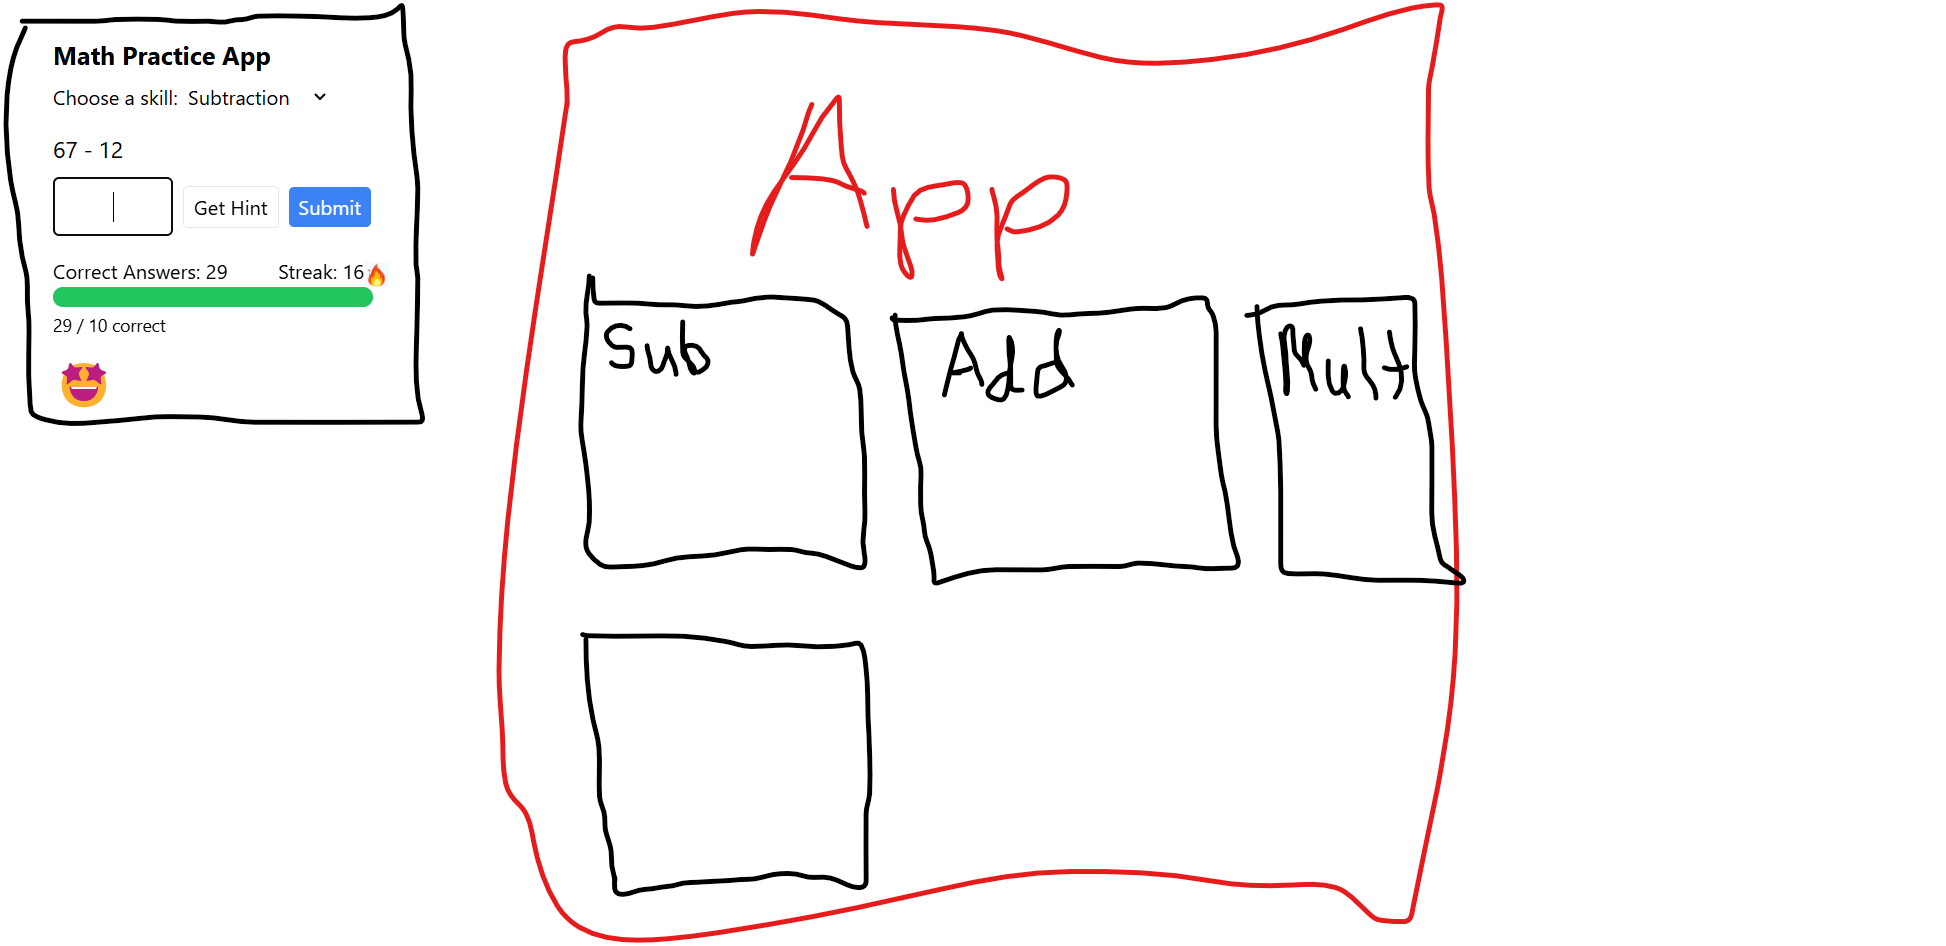
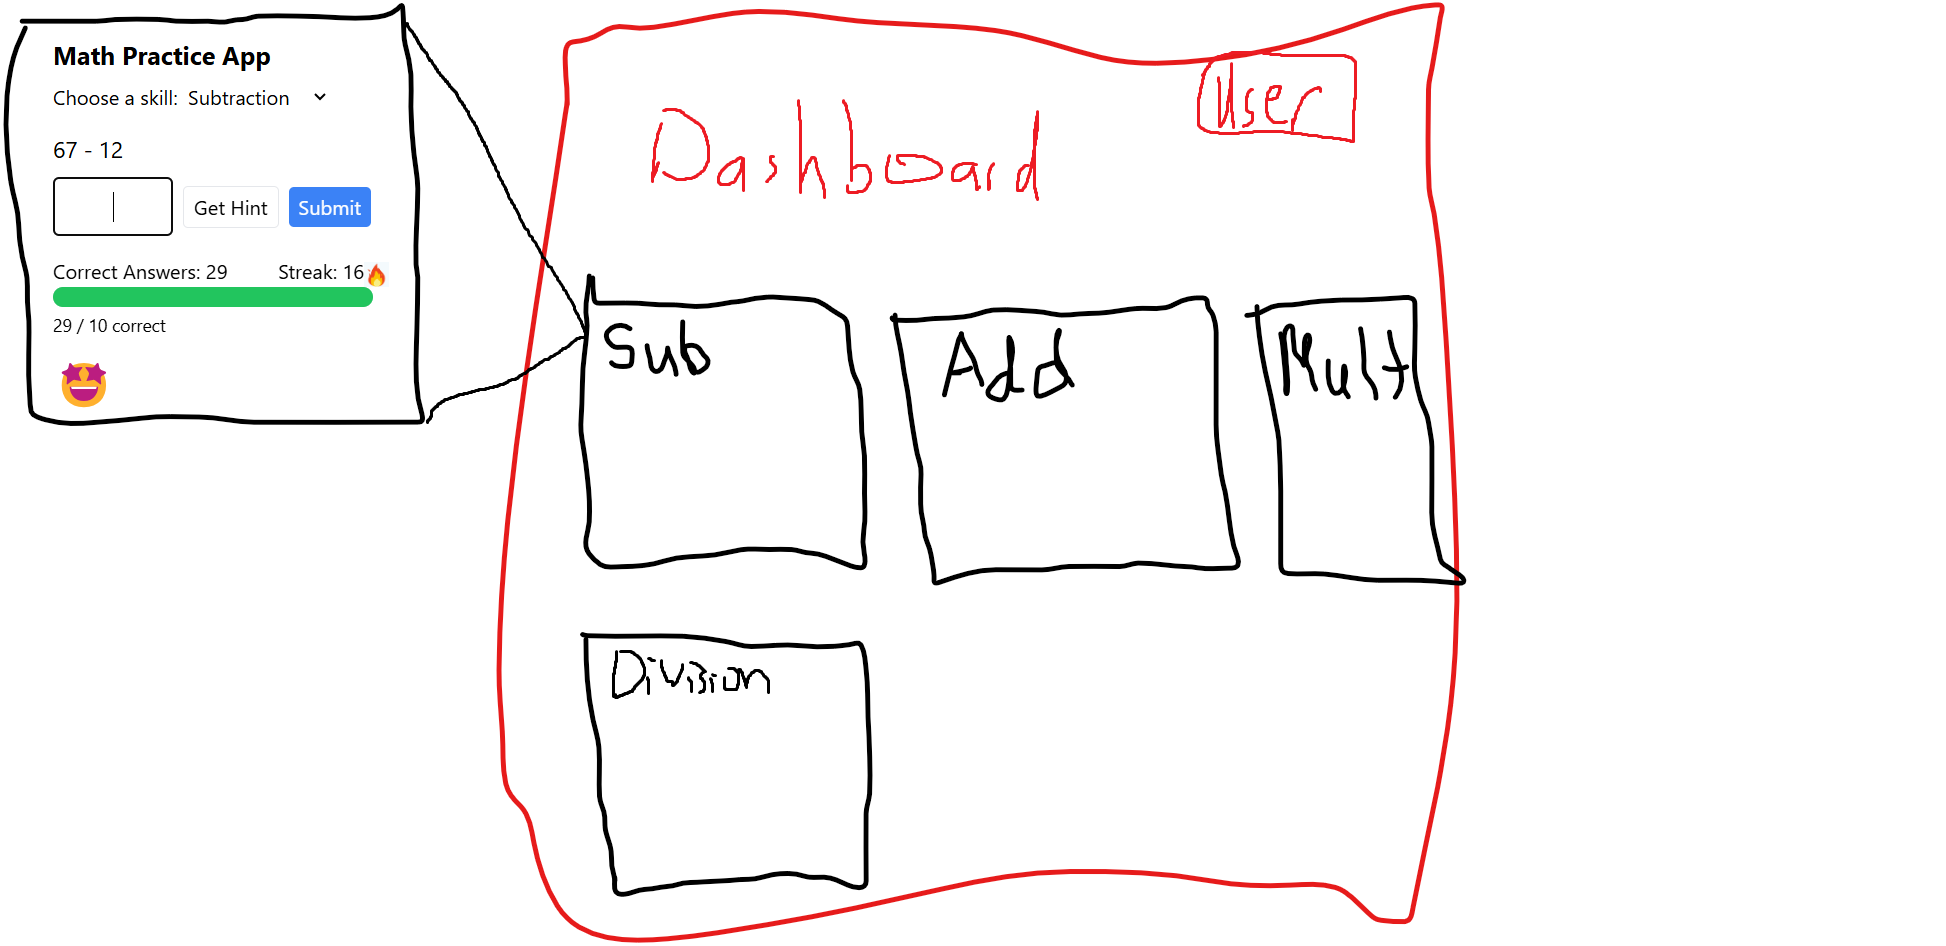
Rerouted App as Dashboard, App Components are now called SkillCards. Added More problemGenerators.

diff --git a/src/pages/SkillCard.tsx b/src/pages/SkillCard.tsx
@@ -3,28 +3,40 @@ import ProblemView from "../components/ProblemView";
 import {
   generateAdditionProblem,
   generateSubtractionProblem,
+  generateMultiplicationProblem,
+  generateDivisionProblem,
   MathProblem,
 } from "../utils/problemGenerators";
 import User from "../components/User";
 import { skills } from "../components/User";
 import type { Skill } from "../components/SkillSelector";
 import ProgressBar from "../components/ProgressBar";
-import fireGif from "../assets/gifs/fire.gif"
-import { ResizableBox } from 'react-resizable';
-import 'react-resizable/css/styles.css';
+import fireGif from "../assets/gifs/fire.gif";
+import { ResizableBox } from "react-resizable";
+import "react-resizable/css/styles.css";
 
-function App() {
+interface SkillCardProps {
+  skillName: string;
+}
+
+export default function SkillCard({ skillName }: SkillCardProps) {
   const [correctCount, setCorrectCount] = useState(0);
   const [streakCount, setStreakCount] = useState(0);
-  const [activeSkill, setActiveSkill] = useState<string>("Addition");
+  const [activeSkill, setActiveSkill] = useState<string>(skillName);
   const [usersSkills, setUsersSkills] = useState<Skill[]>(skills);
-  const [pendingSkill, setPendingSkill] = useState<string>("Addition");
+  const [pendingSkill, setPendingSkill] = useState<string>(skillName);
   //setPendingSkill(activeSkill); // This will be important if/when we use localStorage or backend.
   const baseWidth = 300;
   const baseHeight = 350;
-  const [appSize, setAppSize] = useState({width:baseWidth, height:baseHeight})
-  
-  const scale = Math.min(appSize.width / baseWidth, appSize.height / baseHeight); // Need to think about decoupling? 
+  const [appSize, setAppSize] = useState({
+    width: baseWidth,
+    height: baseHeight,
+  });
+
+  const scale = Math.min(
+    appSize.width / baseWidth,
+    appSize.height / baseHeight
+  ); // Need to think about decoupling?
 
   const handleCorrectAnswer = () => {
     setCorrectCount((prev) => prev + 1);
@@ -41,6 +53,10 @@ function App() {
         return generateAdditionProblem;
       case "Subtraction":
         return generateSubtractionProblem;
+      case "Multiplication":
+        return generateMultiplicationProblem;
+      case "Division":
+        return generateDivisionProblem;
       default:
         return generateAdditionProblem;
     }
@@ -50,28 +66,39 @@ function App() {
     return problem.hint;
   };
 
+  const styles = {
+    card: {
+      border: "1px solid #ccc",
+      borderRadius: "8px",
+      padding: "20px",
+      textAlign: "center",
+      backgroundColor: "#f9f9f9",
+      boxShadow: "0 2px 5px rgba(0, 0, 0, 0.1)",
+    },
+  };
+
   return (
     <div className="min-h-screen flex items-center justify-center bg-gray-100">
-      <ResizableBox 
-        width={appSize.width} 
+      <ResizableBox
+        width={appSize.width}
         height={appSize.height}
-        minConstraints={[200,300]} 
-        maxConstraints={[400,600]}
+        minConstraints={[200, 300]}
+        maxConstraints={[400, 600]}
         onResizeStop={(e, data) => {
           setAppSize({ width: data.size.width, height: data.size.height });
         }}
-        resizeHandles={['se']}
+        resizeHandles={["se"]}
         className="bg-white rounded-xl shadow-xl p-4 overflow-hidden"
       >
         <div
           style={{
             transform: `scale(${scale})`,
-            transformOrigin: 'top left',
+            transformOrigin: "top left",
             width: `${baseWidth}px`,
             height: `${baseHeight}px`,
           }}
         >
-          <h1 className="text-xl font-bold mb-2">Math Practice App</h1>
+          <h1 className="text-xl font-bold mb-2">{activeSkill}</h1>
           <div className="mb-4">
             <label htmlFor="skill">Choose a skill: </label>
             <select
@@ -104,8 +131,10 @@ function App() {
             onIncorrect={handleIncorrectAnswer}
           />
           <div className="mt-4">
-            Correct Answers: {correctCount} &emsp;&emsp; Streak: {streakCount} 
-            {streakCount >= 5 && <img src={fireGif} alt="fire" className="h-5 inline-block" />}
+            Correct Answers: {correctCount} &emsp;&emsp; Streak: {streakCount}
+            {streakCount >= 5 && (
+              <img src={fireGif} alt="fire" className="h-5 inline-block" />
+            )}
           </div>
           <ProgressBar correctCount={correctCount} streakCount={streakCount} />
           <User correctCount={correctCount} />
@@ -114,5 +143,3 @@ function App() {
     </div>
   );
 }
-
-export default App;

diff --git a/src/utils/problemGenerators.ts b/src/utils/problemGenerators.ts
@@ -2,7 +2,7 @@ export interface MathProblem {
   topic: string,
   question: string;
   hint: string;
-  answer: number;
+  answer: string;
 }
 
 export function generateAdditionProblem(): MathProblem {
@@ -12,7 +12,7 @@ export function generateAdditionProblem(): MathProblem {
     topic: 'Addition of 2-Digit Nummbers',
     question: `${a} + ${b}`,
     hint: 'Add the tens. Add the ones. Carry over, if needed.',
-    answer: a + b,
+    answer: (a + b).toString(),
   };
 }
 
@@ -23,6 +23,30 @@ export function generateSubtractionProblem(): MathProblem {
     topic: 'Subtraction of 2-Digit Nummbers',
     question: `${a} - ${b}`,
     hint: a%10>b%10 ? 'Subtract the ones. Then Subtract the tens.' : 'Consider borrowing from the tens.',
-    answer: a - b,
+    answer: (a - b).toString(),
   };
+}
+
+export function generateMultiplicationProblem(): MathProblem {
+  const a = Math.floor(Math.random()*90)+10;
+  const b = Math.floor(Math.random()*9)+1;
+
+  return {
+    topic: "Multiplication of 2-digit by 1-digit",
+    question: `${a} × ${b}`,
+    hint: "Multiply the ones. Carry the tens. Multiply the tens place and add the carry.",
+    answer: (a*b).toString(),
+  }
+}
+
+export function generateDivisionProblem(): MathProblem {
+  const a = Math.floor(Math.random()*90)+10;
+  const b = Math.floor(Math.random()*9)+2;
+
+  return {
+    topic: "Division of 2-digit by 1-digit",
+    question: `${a} ÷ ${b}`,
+    hint: `Find the closest multiple. ${b} &#x2715___ gets you close to ${a}. Find how much remains.`,
+    answer: `${Math.floor(a/b)} R ${a%b}`,
+  }
 }

diff --git a/src/pages/Dashboard.tsx b/src/pages/Dashboard.tsx
@@ -1,0 +1,28 @@
+// This Dashboard should display "App", which will be changed to "SkillCard"?
+import SkillCard from "./SkillCard";
+import { skills } from "../components/User";
+
+const styles = {
+  dashboard: {
+    display: "grid",
+    gridTemplateColumns: "repeat(auto-fit, minmax(200px, 1fr))",
+    // gap: "20px", // This creates a gap betwen each grid within the column
+    padding: "20px", // This creates a 20px border around all sides.
+  },
+};
+
+function Dashboard() {
+  console.log(skills);
+  return (
+    <div style={styles.dashboard}>
+      {skills.map((element, index) => (
+        <div key={index}>
+          <SkillCard skillName={element.name} />
+          <p>{element.name}</p>
+        </div>
+      ))}
+    </div>
+  );
+}
+
+export default Dashboard;

diff --git a/src/components/Navbar.tsx b/src/components/Navbar.tsx
@@ -19,7 +19,7 @@ export default function NavbarWithModal() {
 
   const handleLogin = () => {
     setIsModalOpen(false);
-    navigate("/app");
+    navigate("/dashboard");
   };
 
   return (
@@ -83,7 +83,7 @@ export default function NavbarWithModal() {
                 onClick={handleLogin}
                 className="bg-orange-500 hover:bg-orange-600"
               >
-                Continue to App
+                Continue to Dashboard
               </Button>
             </div>
           </Dialog.Panel>

diff --git a/src/routes.tsx b/src/routes.tsx
@@ -1,13 +1,14 @@
 // src/routes.tsx
 import { Routes, Route } from "react-router-dom";
 import LandingPage from "./pages/LandingPage";
-import App from "./pages/App";
+import App from "./pages/SkillCard";
+import Dashboard from "./pages/Dashboard";
 
 export default function AppRoutes() {
   return (
     <Routes>
       <Route path="/" element={<LandingPage />} />
-      <Route path="/app" element={<App />} />
+      <Route path="/dashboard" element={<Dashboard />} />
     </Routes>
   );
 }

diff --git a/src/App.test.tsx b/src/App.test.tsx
@@ -1,9 +1,10 @@
 import React from "react";
 import { render, screen } from "@testing-library/react";
-import App from "./pages/App";
+import App from "./pages/SkillCard";
+import Dashboard from "./pages/Dashboard";
 
 test("renders learn react link", () => {
-  render(<App />);
+  render(<Dashboard />);
   const linkElement = screen.getByText(/learn react/i);
   expect(linkElement).toBeInTheDocument();
 });

diff --git a/src/index.tsx b/src/index.tsx
@@ -3,7 +3,7 @@ import ReactDOM from "react-dom/client";
 import { BrowserRouter } from "react-router-dom";
 import AppRoutes from "routes"; // we'll create this
 import "./index.css";
-import App from "./pages/App";
+import App from "./pages/SkillCard";
 import reportWebVitals from "./reportWebVitals";
 
 ReactDOM.createRoot(document.getElementById("root")!).render(
